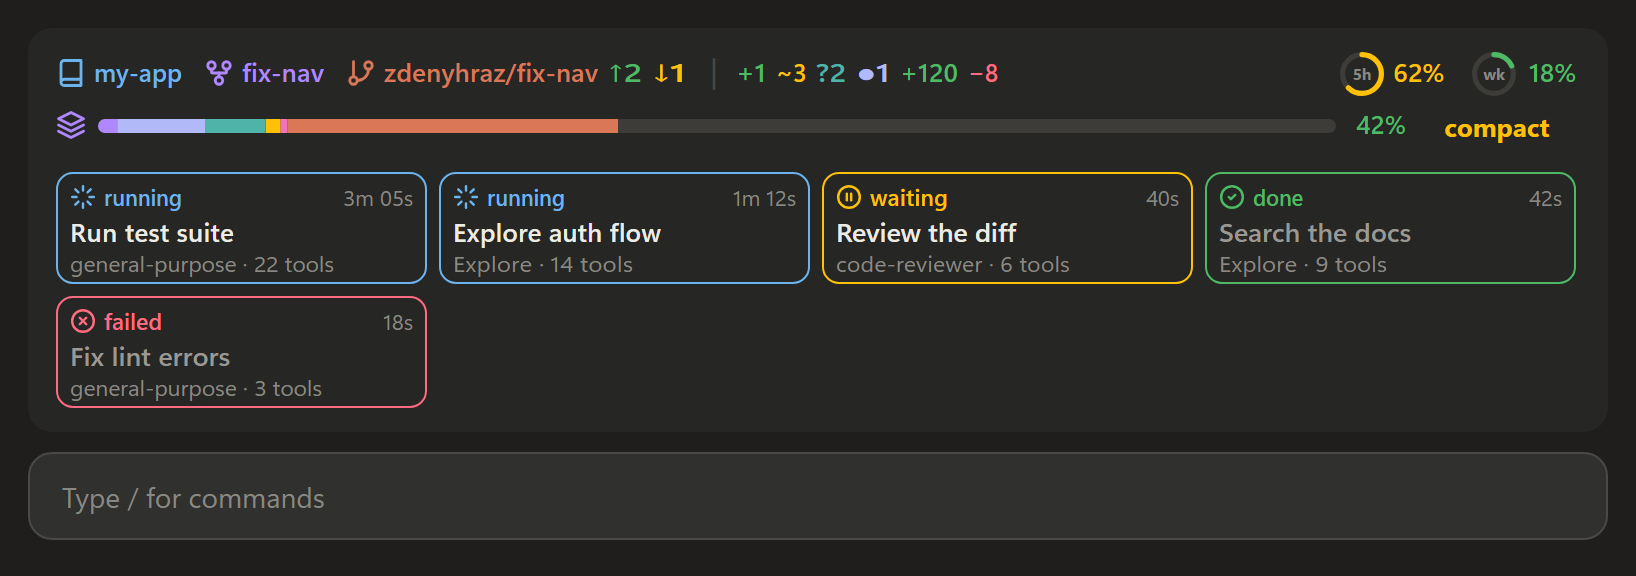
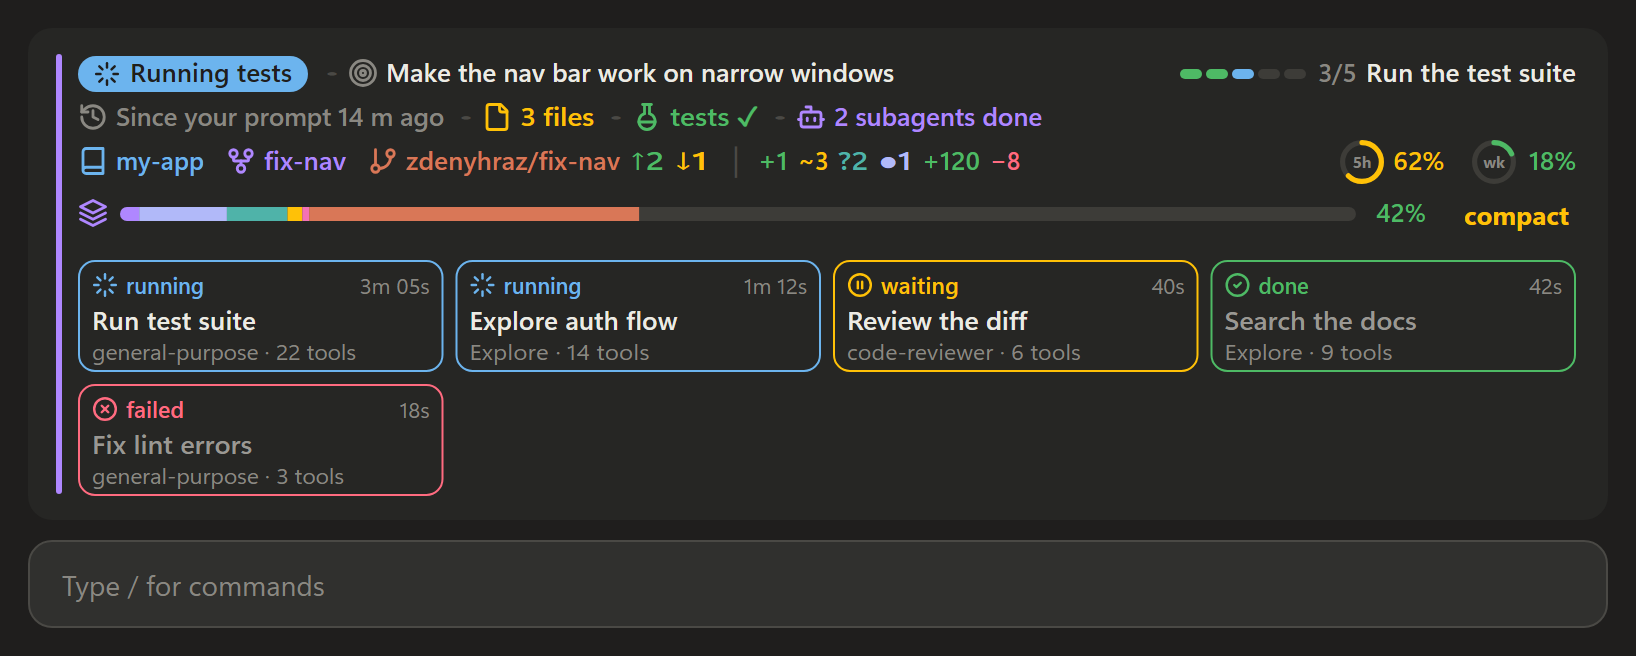
Update git-band's screenshots for 0.6.0
Drawn by the 0.6.0 code with sample data: the band while it works, with
subagents; waiting for an answer; and five sessions, each in a worktree with a
colour of its own and its state as a chip. The idle screenshot gives way to the
waiting one.

Changed region(s): [[0.0312, 0.0625, 0.9664, 0.8125], [0.0312, 0.8438, 0.9664, 0.9688], [0.717, 0.0938, 0.7793, 0.125]]

diff --git a/README.md b/README.md
@@ -10,13 +10,17 @@ Mods need Claude Code 2.1.287 or later.
 
 ## git-band
 
-While subagents run:
+While the session works, with subagents running:
 
-![git-band with five subagent cards: running, running, waiting, done and failed](plugins/git-band/docs/dashboard-agents.png)
+![git-band while it runs tests: the state chip, goal and plan step, what changed since the prompt, the git row with the plan limits, the context bar and five subagent cards](plugins/git-band/docs/dashboard-agents.png)
 
-With none:
+Waiting for you:
 
-![git-band with no subagents: the git row with the plan limits, and the context bar](plugins/git-band/docs/dashboard-idle.png)
+![git-band waiting for an answer: an amber chip with the question, then what changed since the prompt, the git row and the context bar](plugins/git-band/docs/dashboard-waiting.png)
+
+Five sessions, each in a worktree with a colour of its own:
+
+![Five git-band bands, one per worktree: editing, waiting for you, done, failed and stopped](plugins/git-band/docs/dashboard-sessions.png)
 
 Drawn by the mod's own code with sample data, in the desktop app's dark theme.
 
